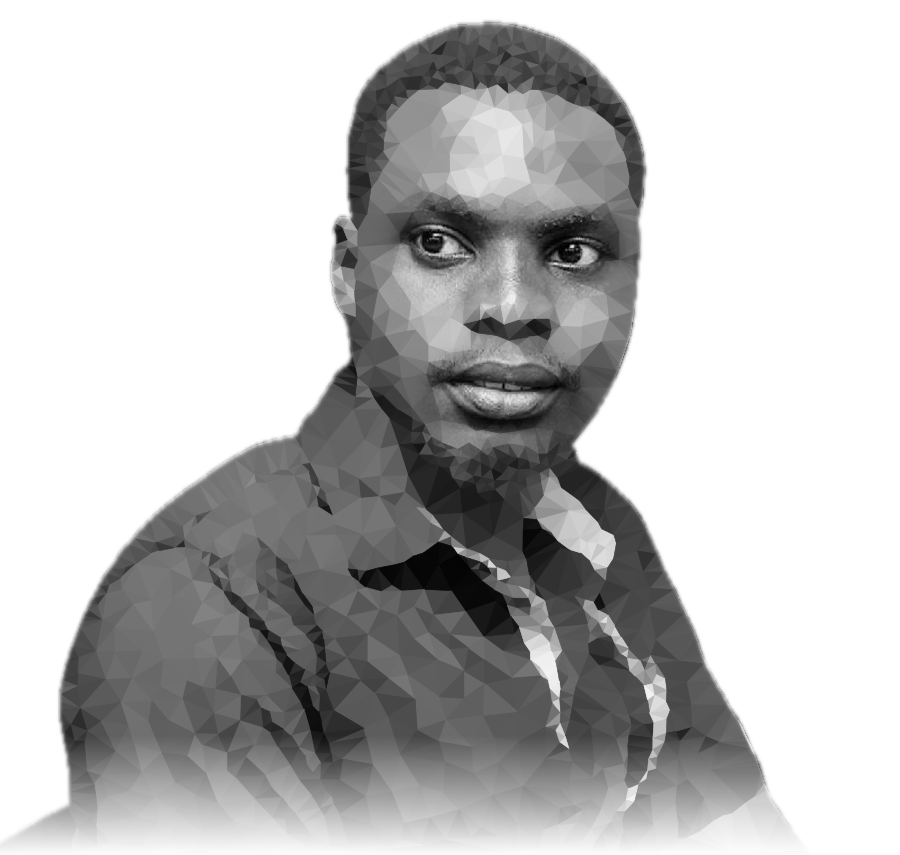
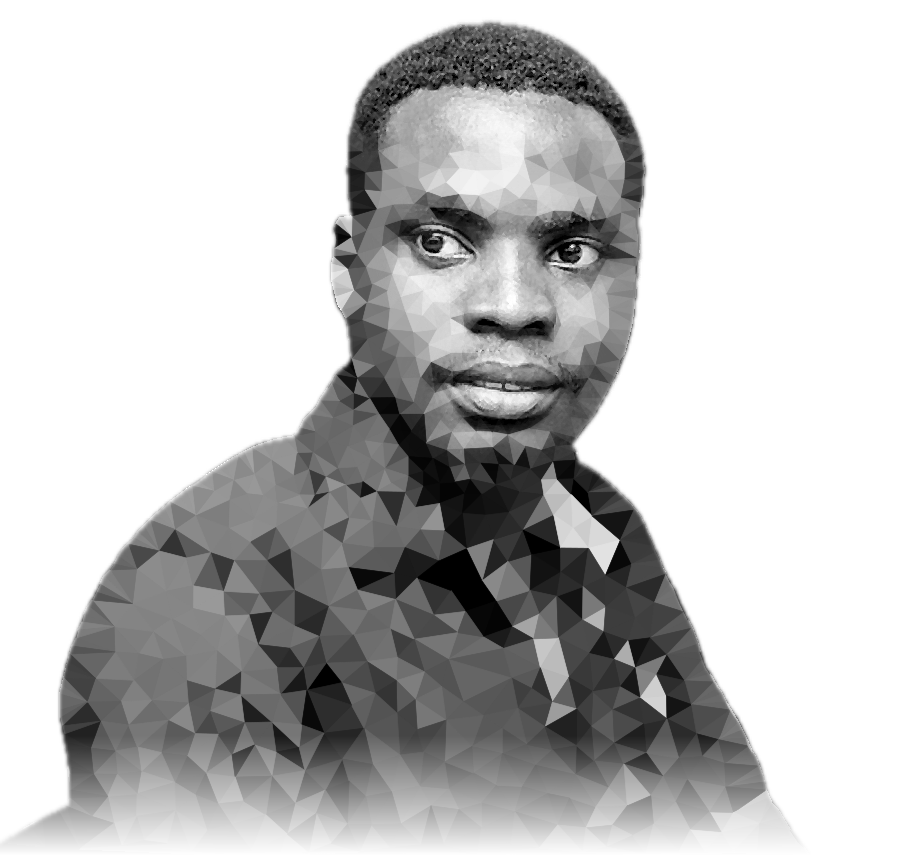
Team: better crew busts (high-contrast, light-lit, crisp features; new builder) and the four of us as a faint poster behind the hero, in the order Selorm, Leslie, Joyce, Elton

diff --git a/src/app/team/page.tsx b/src/app/team/page.tsx
@@ -11,6 +11,7 @@ export const metadata: Metadata = {
 };
 
 const byId = (id: Member["id"]) => CREW.find((m) => m.id === id)!;
+const POSTER = (["efo", "leslie", "joyce", "elton"] as const).map(byId);   // the poster's order
 const Who = ({ m }: { m: Member }) => (
   <span className={`inline-flex h-7 items-center gap-1.5 rounded-full border px-2.5 text-[13px] font-medium ${m.me ? "border-ink bg-ink text-bg" : "border-line bg-bg text-ink"}`}>{m.me && <i aria-hidden className="h-[6px] w-[6px] rounded-full bg-accent" />}{m.name}</span>
 );
@@ -18,7 +19,14 @@ const Who = ({ m }: { m: Member }) => (
 export default function TeamPage() {
   return (
     <>
-      <Slide label="Team">
+      <Slide label="Team" className="relative isolate overflow-hidden">
+        {/* the four of us, lightly, like a film poster: Selorm, Leslie, Joyce, Elton */}
+        <div aria-hidden className="pointer-events-none absolute inset-x-0 bottom-0 -z-10 flex h-[64%] items-end justify-center px-0 opacity-[0.2] mix-blend-multiply [-webkit-mask-image:linear-gradient(to_top,transparent_0%,#000_22%,#000_100%)] [mask-image:linear-gradient(to_top,transparent_0%,#000_22%,#000_100%)] md:h-[92%] md:px-0">
+          {POSTER.map((m, i) => (
+            <Image key={m.id} src={m.bust.src} alt="" width={m.bust.w} height={m.bust.h} priority={i < 2} sizes="(min-width: 1024px) 32vw, 40vw"
+              className={`h-full w-auto min-w-0 max-w-[46%] shrink object-contain object-bottom md:max-w-[34%] ${i ? "-ml-[15%] md:-ml-[5%]" : ""} ${i % 2 ? "" : "h-[88%]"}`} />
+          ))}
+        </div>
         <div className="mt-7 grid gap-5 md:mt-10 md:gap-8 lg:grid-cols-[1fr_400px] lg:items-end">
           <H as="h1" className="t-hero">A crew of four</H>
           <p className="t-lead">

diff --git a/src/lib/team.ts b/src/lib/team.ts
@@ -1,6 +1,6 @@
 /* The 400 crew. Everything here comes from the crew's own site (https://400-omega.vercel.app/: Crew, Story and Track record
    pages), read on 27 Nov 2026. Nothing is added. Roles, ownership lists and dates are as that site states them, except Leslie's role, which Leslie corrected on 27 Nov 2026: Leslie is the backend person on most projects.
-   The busts are faceted portraits made from photos Leslie supplied on 28 Nov 2026 (public/team, built with scripts/build-elena-bust.mjs). */
+   The busts are faceted portraits made from photos Leslie supplied on 28 Nov 2026 (public/team, built with scripts/build-crew-bust.mjs). */
 
 export const CREW_SITE = "https://400-omega.vercel.app";
 
